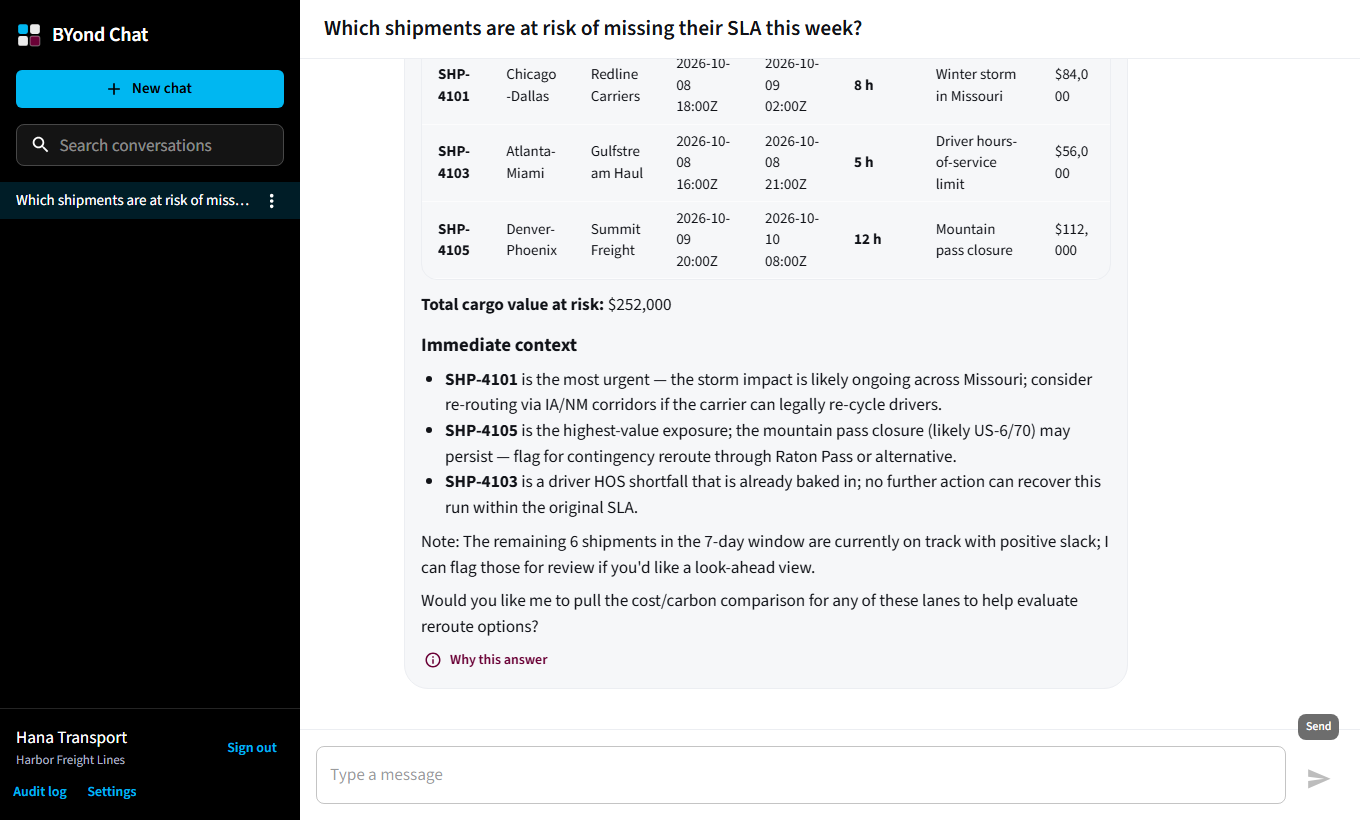
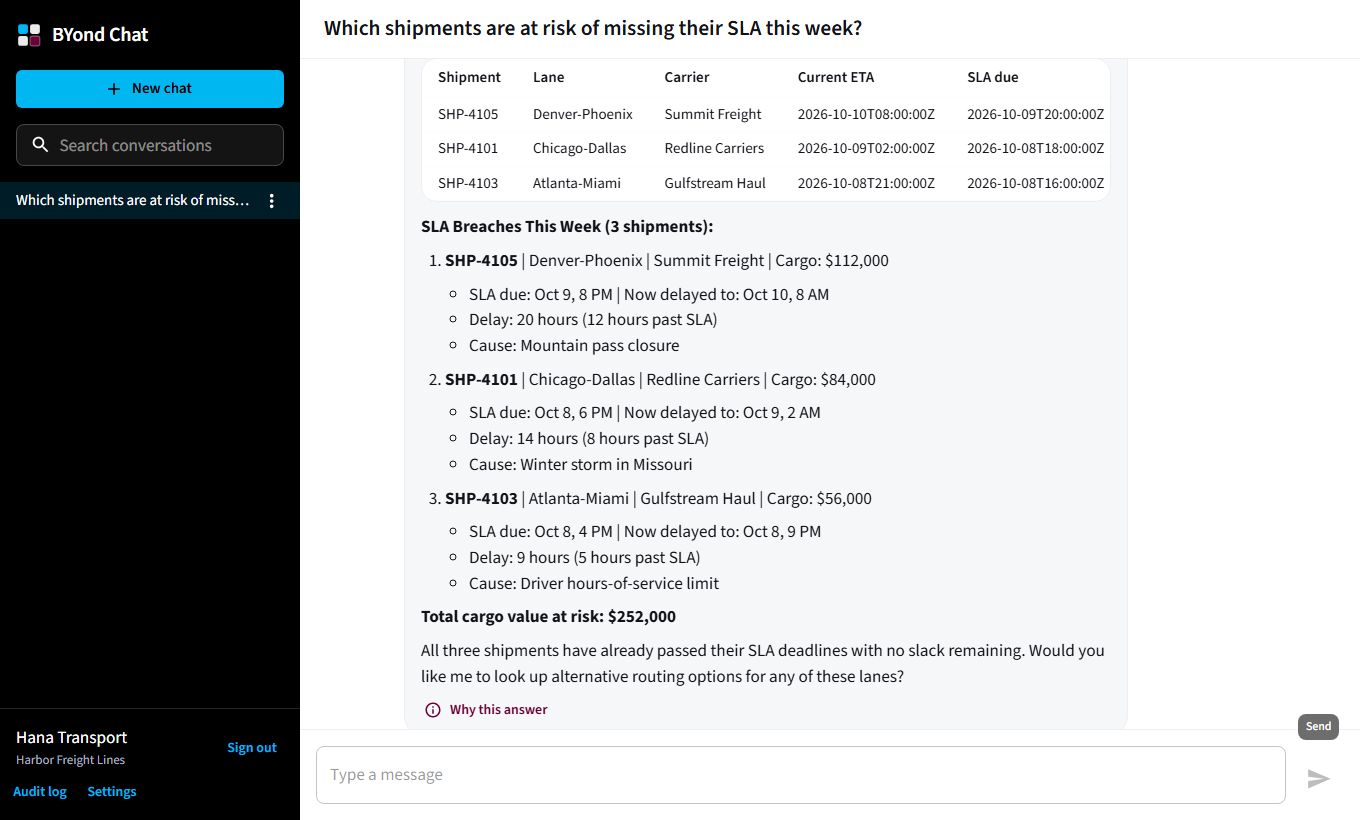
docs: retake the copilot screenshot after the table fix; Python 3.11+

diff --git a/README.md b/README.md
@@ -84,7 +84,7 @@ sometimes rate-limited; the API retries the same model with backoff and the UI o
 
 ## Run without Docker
 
-You need Python 3.12, Node 22 and (optionally) PostgreSQL. SQLite works for local development.
+You need Python 3.11 or newer, Node 22 and (optionally) PostgreSQL. SQLite works for local development.
 
 ```bash
 # backend
